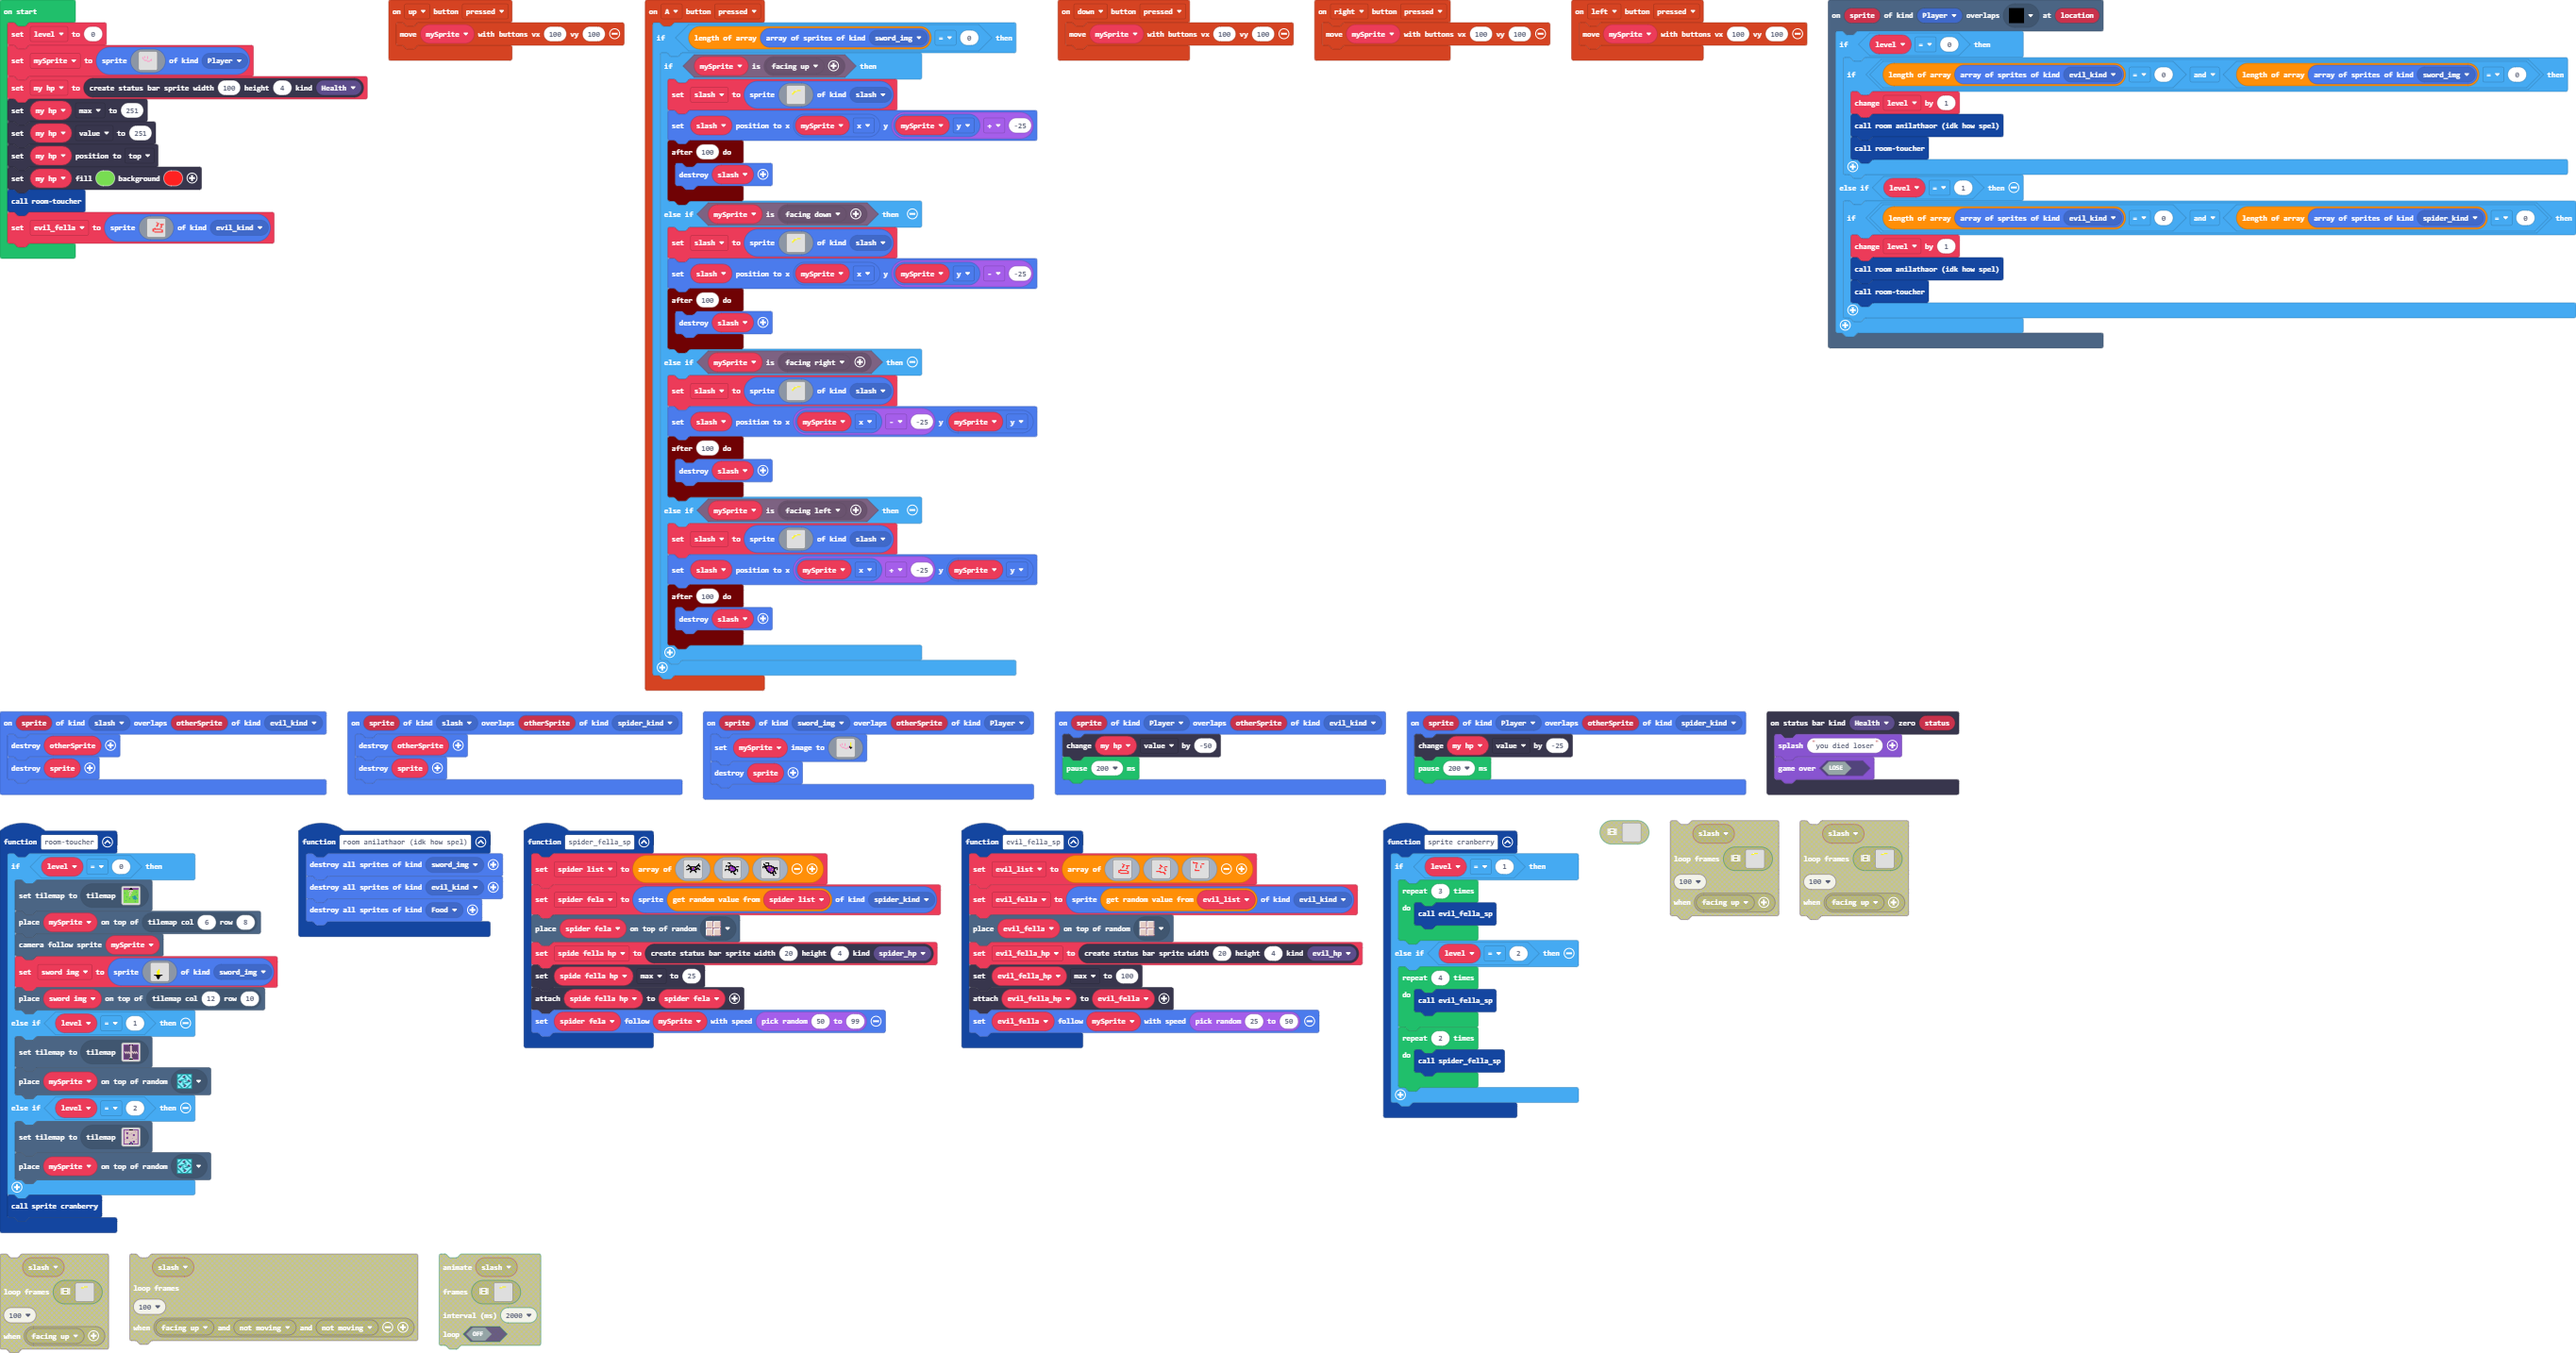
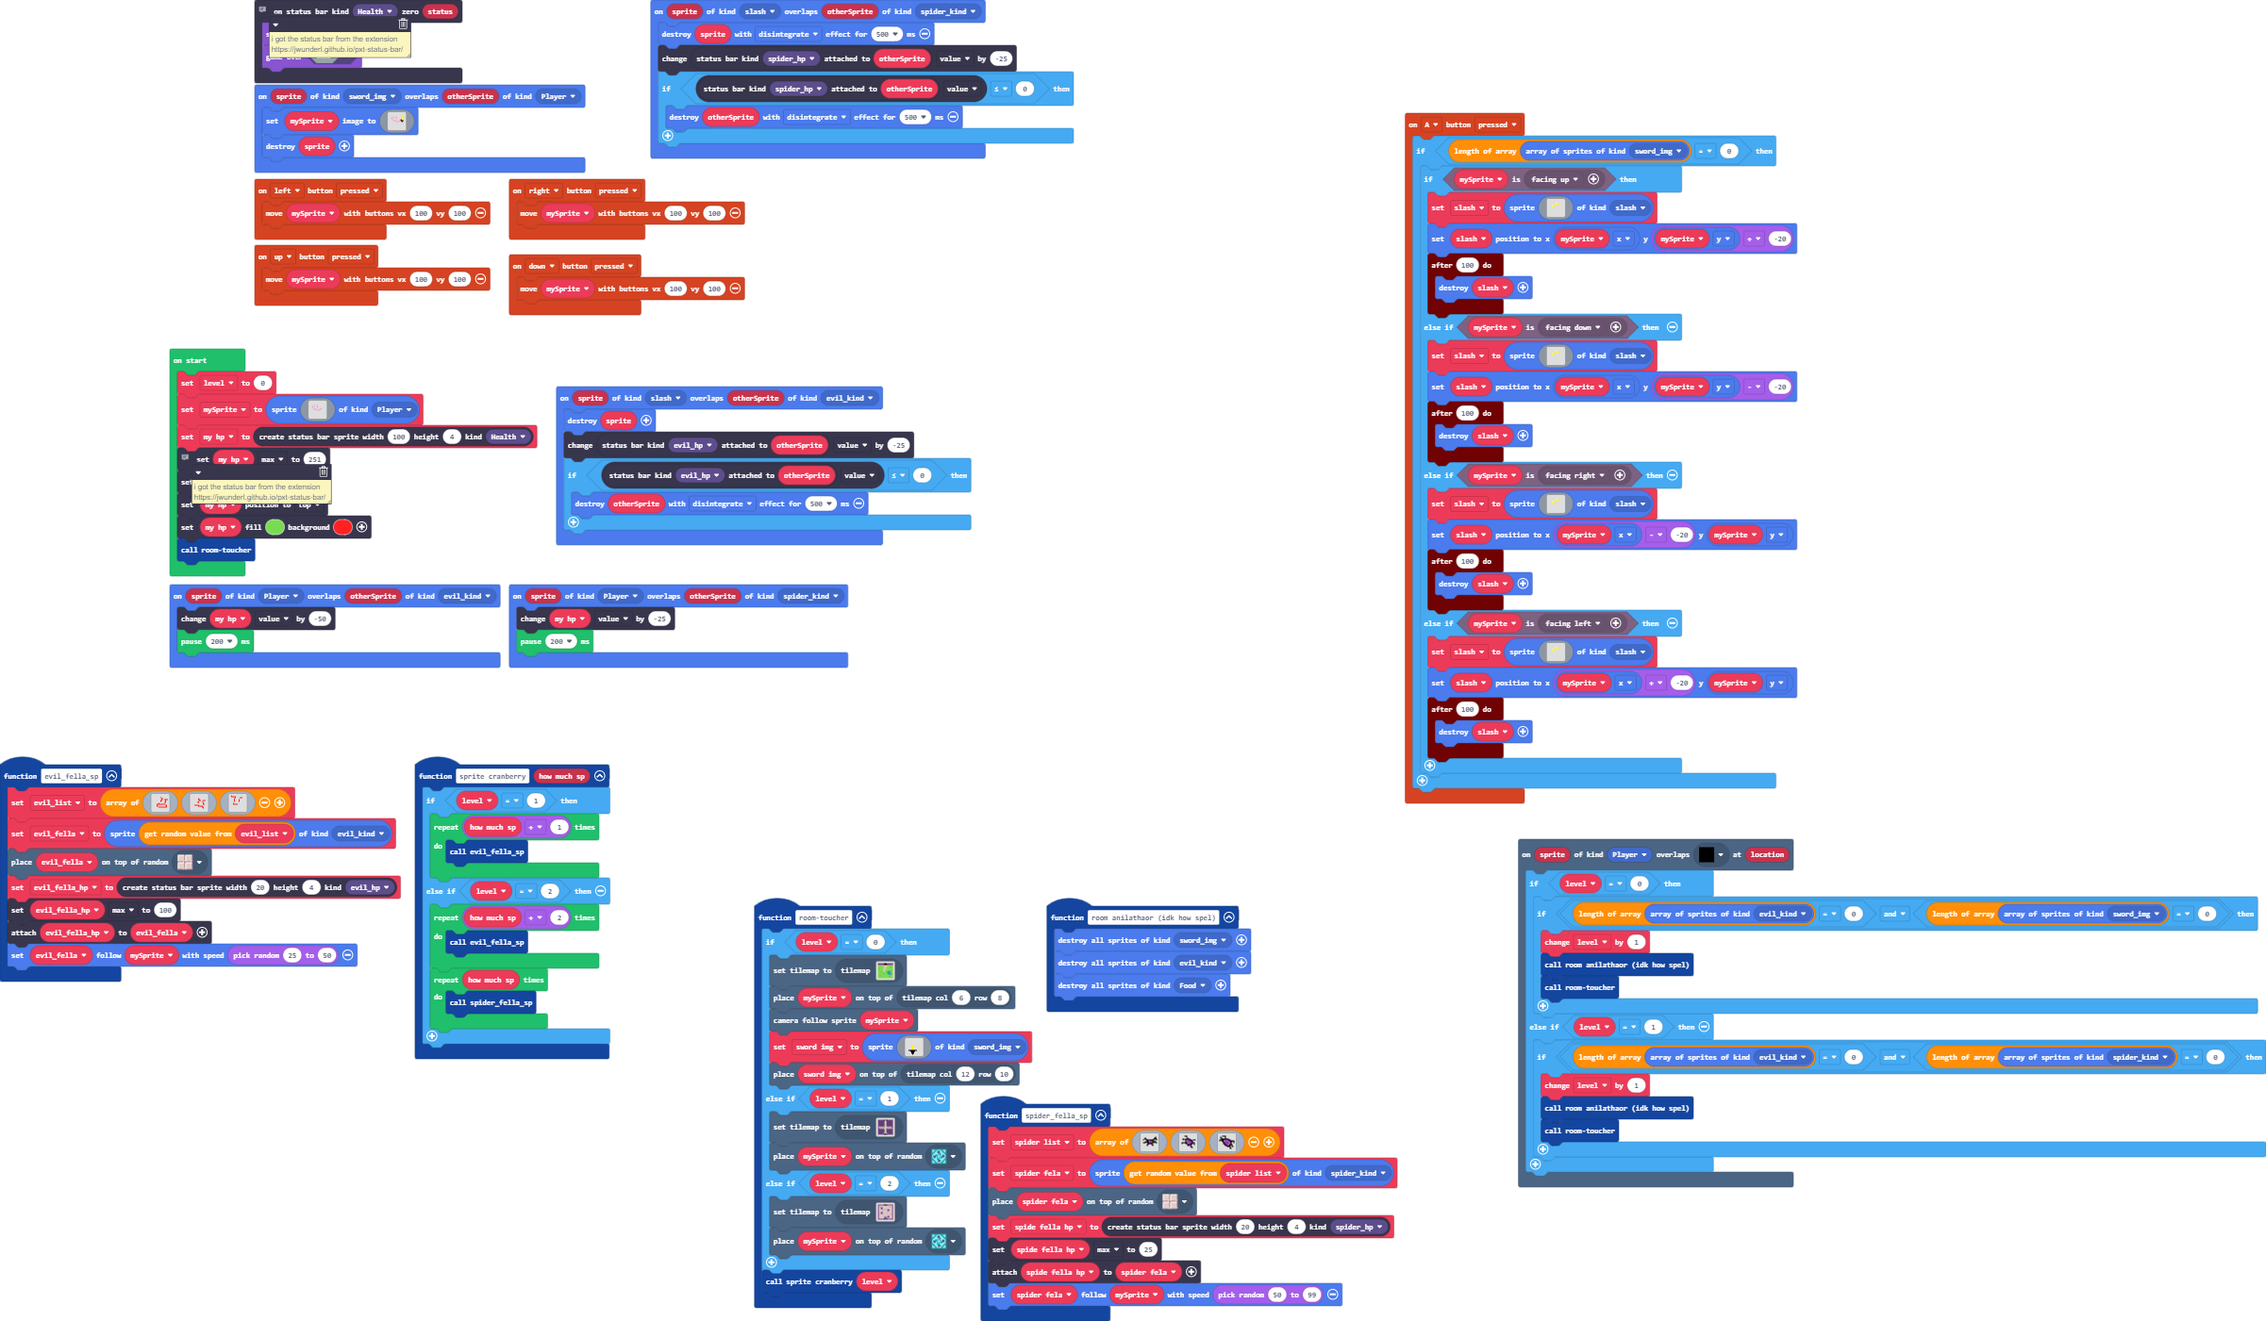
Update pxt.json, main.blocks, main.ts

diff --git a/main.ts b/main.ts
@@ -36,8 +36,11 @@ scene.onOverlapTile(SpriteKind.Player, assets.tile`myTile`, function (sprite, lo
     }
 })
 sprites.onOverlap(SpriteKind.slash, SpriteKind.spider_kind, function (sprite, otherSprite) {
-    sprites.destroy(otherSprite)
-    sprites.destroy(sprite)
+    sprites.destroy(sprite, effects.disintegrate, 500)
+    statusbars.getStatusBarAttachedTo(StatusBarKind.spider_hp, otherSprite).value += -25
+    if (statusbars.getStatusBarAttachedTo(StatusBarKind.spider_hp, otherSprite).value <= 0) {
+        sprites.destroy(otherSprite, effects.disintegrate, 500)
+    }
 })
 function spider_fella_sp () {
     spider_list = [assets.image`myImage4`, assets.image`myImage8`, assets.image`myImage9`]
@@ -52,25 +55,25 @@ controller.A.onEvent(ControllerButtonEvent.Pressed, function () {
     if (sprites.allOfKind(SpriteKind.sword_img).length == 0) {
         if (characterAnimations.matchesRule(mySprite, characterAnimations.rule(Predicate.FacingUp))) {
             slash = sprites.create(assets.image`myImage2`, SpriteKind.slash)
-            slash.setPosition(mySprite.x, mySprite.y + -25)
+            slash.setPosition(mySprite.x, mySprite.y + -20)
             timer.after(100, function () {
                 sprites.destroy(slash)
             })
         } else if (characterAnimations.matchesRule(mySprite, characterAnimations.rule(Predicate.FacingDown))) {
             slash = sprites.create(assets.image`myImage2`, SpriteKind.slash)
-            slash.setPosition(mySprite.x, mySprite.y - -25)
+            slash.setPosition(mySprite.x, mySprite.y - -20)
             timer.after(100, function () {
                 sprites.destroy(slash)
             })
         } else if (characterAnimations.matchesRule(mySprite, characterAnimations.rule(Predicate.FacingRight))) {
             slash = sprites.create(assets.image`myImage2`, SpriteKind.slash)
-            slash.setPosition(mySprite.x - -25, mySprite.y)
+            slash.setPosition(mySprite.x - -20, mySprite.y)
             timer.after(100, function () {
                 sprites.destroy(slash)
             })
         } else if (characterAnimations.matchesRule(mySprite, characterAnimations.rule(Predicate.FacingLeft))) {
             slash = sprites.create(assets.image`myImage2`, SpriteKind.slash)
-            slash.setPosition(mySprite.x + -25, mySprite.y)
+            slash.setPosition(mySprite.x + -20, mySprite.y)
             timer.after(100, function () {
                 sprites.destroy(slash)
             })
@@ -94,8 +97,9 @@ function roomtoucher () {
         tiles.setCurrentTilemap(tilemap`level0`)
         tiles.placeOnRandomTile(mySprite, sprites.dungeon.collectibleInsignia)
     }
-    sprite_cranberry()
+    sprite_cranberry(level)
 }
+// i got the status bar from the extension https://jwunderl.github.io/pxt-status-bar/
 statusbars.onZero(StatusBarKind.Health, function (status) {
     game.splash("you died loser")
     game.gameOver(false)
@@ -137,35 +141,38 @@ sprites.onOverlap(SpriteKind.sword_img, SpriteKind.Player, function (sprite, oth
     sprites.destroy(sprite)
 })
 sprites.onOverlap(SpriteKind.slash, SpriteKind.evil_kind, function (sprite, otherSprite) {
-    sprites.destroy(otherSprite)
     sprites.destroy(sprite)
+    statusbars.getStatusBarAttachedTo(StatusBarKind.evil_hp, otherSprite).value += -25
+    if (statusbars.getStatusBarAttachedTo(StatusBarKind.evil_hp, otherSprite).value <= 0) {
+        sprites.destroy(otherSprite, effects.disintegrate, 500)
+    }
 })
 sprites.onOverlap(SpriteKind.Player, SpriteKind.spider_kind, function (sprite, otherSprite) {
     my_hp.value += -25
     pause(200)
 })
-function sprite_cranberry () {
+function sprite_cranberry (how_much_sp: number) {
     if (level == 1) {
-        for (let index = 0; index < 3; index++) {
+        for (let index = 0; index < how_much_sp + 1; index++) {
             evil_fella_sp()
         }
     } else if (level == 2) {
-        for (let index = 0; index < 4; index++) {
+        for (let index = 0; index < how_much_sp + 2; index++) {
             evil_fella_sp()
         }
-        for (let index = 0; index < 2; index++) {
+        for (let index = 0; index < how_much_sp; index++) {
             spider_fella_sp()
         }
     }
 }
 let evil_fella_hp: StatusBarSprite = null
+let evil_fella: Sprite = null
 let evil_list: Image[] = []
 let sword_img: Sprite = null
 let slash: Sprite = null
 let spide_fella_hp: StatusBarSprite = null
 let spider_fela: Sprite = null
 let spider_list: Image[] = []
-let evil_fella: Sprite = null
 let my_hp: StatusBarSprite = null
 let mySprite: Sprite = null
 let level = 0
@@ -189,9 +196,9 @@ mySprite = sprites.create(img`
     . . . . . . . . . . . . . . . . 
     `, SpriteKind.Player)
 my_hp = statusbars.create(100, 4, StatusBarKind.Health)
+// i got the status bar from the extension https://jwunderl.github.io/pxt-status-bar/
 my_hp.max = 251
 my_hp.value = 251
 my_hp.positionDirection(CollisionDirection.Top)
 my_hp.setColor(7, 2)
 roomtoucher()
-evil_fella = sprites.create(assets.image`myImage5`, SpriteKind.evil_kind)
